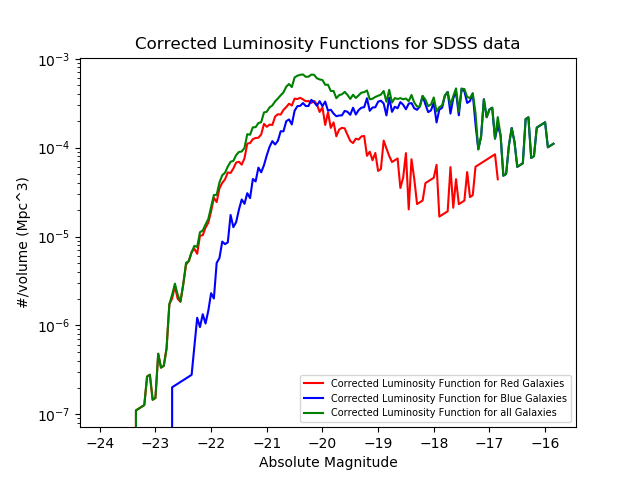
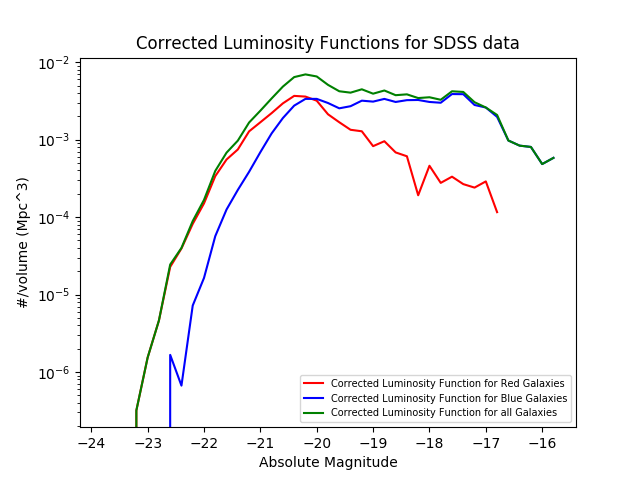
clears on plots, mag bins problem

diff --git a/termproject.py b/termproject.py
@@ -14,7 +14,7 @@ maxR = (c * zmax) / H0
 limMag = 17.6
 h = 3.0/Mega # Mpc
 colorDifference = 1.565
-stepsPerMag = 20
+stepsPerMag = 5
 
 hdulist = fits.open("sdss.fits")
 
@@ -158,6 +158,7 @@ def calcVratios(Veffs, Vmaxs):
 
 # raw and corrected lminosity function plot for all galaxies
 def allGalaxiesPlot(x, lumFunc, correctedLumFunc):
+	plt.clf()
 	plt.plot(x, lumFunc, "r", label="Raw Luminosity Function")
 	plt.plot(x, correctedLumFunc, "b", label="Corrected Luminosity Function")
 	plt.legend(prop={'size': 7})
@@ -170,6 +171,7 @@ def allGalaxiesPlot(x, lumFunc, correctedLumFunc):
 # corrected luminosity function plots for all galaxies, red and blue separate
 def redBluePlot(x, correctedLumFunc, x1, redLumFunc, x2, blueLumFunc):
 	print("redblue")
+	plt.clf()
 	plt.plot(x1, redLumFunc, "r", label="Corrected Luminosity Function for Red Galaxies")
 	plt.plot(x2, blueLumFunc, "b", label="Corrected Luminosity Function for Blue Galaxies")
 	plt.plot(x, correctedLumFunc, "g", label="Corrected Luminosity Function for all Galaxies")
@@ -198,6 +200,7 @@ def schecter(M):
 # schecter function over correct luminosity functions
 def redBluePlotSchecter(x, correctedLumFunc, x1, redLumFunc, x2, blueLumFunc):
 	print("redblue schecter")
+	plt.clf()
 	plt.plot(x1, redLumFunc, "r", label="Corrected Luminosity Function for Red Galaxies")
 	plt.plot(x2, blueLumFunc, "b", label="Corrected Luminosity Function for Blue Galaxies")
 	plt.plot(x, correctedLumFunc, "g", label="Corrected Luminosity Function for all Galaxies")
@@ -213,7 +216,10 @@ def redBluePlotSchecter(x, correctedLumFunc, x1, redLumFunc, x2, blueLumFunc):
 # returns correct luminosity function
 def malmquistCorrection(magHist, magBins):
 	print("malmquist")
-	effectiveVols, Vmaxs = effectiveVolume(magBins-1)
+	magBins = magBins.tolist()
+	magBins = [round(i, 2) for i in magBins]
+
+	effectiveVols, Vmaxs = effectiveVolume(magBins)
 	Vratios = calcVratios(effectiveVols, Vmaxs)
 	
 	correctedLumFunc = []
